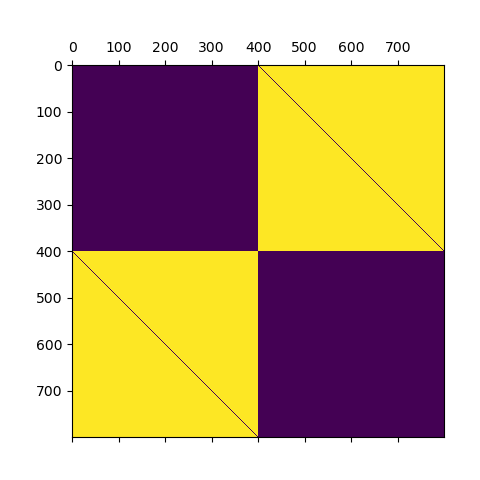
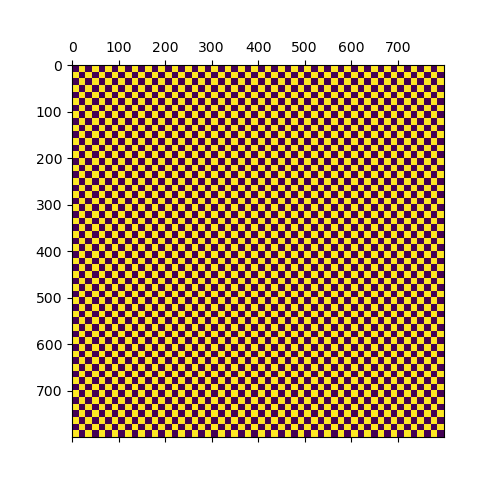
Refactor matrix multiplication in hamiltonian function

Changed region(s): [[0.1562, 0.125, 0.9375, 0.9062]]

diff --git a/main.py b/main.py
@@ -27,10 +27,10 @@ interaction_distance = 3
 
 rng = np.random.default_rng()
 
-sx = np.array([[0,1],[1,0]])
-sy = 1j * np.array([[0,-1],[1,0]])
-sz = np.eye(2)
-sz[-1,-1] = -1
+sx2 = np.array([[0,1],[1,0]])
+sy2 = 1j * np.array([[0,-1],[1,0]])
+sz2 = np.eye(2)
+sz2[-1,-1] = -1
 
 def gaussian_corr(q, u, l0):
     return u * np.exp(-q**2*l0**2/2)
@@ -67,9 +67,9 @@ def get_k_space(L=L):
     return kx, ky, np.diag(cartesian_product[:,0]), np.diag(cartesian_product[:,1])
 
 _, _, kx, _ = get_k_space(L)
-sx = np.kron(sx, np.eye(kx.shape[0]))
-sy = np.kron(sy, np.eye(kx.shape[0]))
-sz = np.kron(sz, np.eye(kx.shape[0]))
+sx = np.kron(np.eye(kx.shape[0]), sx2)
+sy = np.kron(np.eye(kx.shape[0]), sy2)
+sz = np.kron(np.eye(kx.shape[0]), sz2)
 
 def ft_potential_builder_3(L=L, R_I=rng.uniform(low=-L/2,high=L/2,size=(2,N_i*L**2)), u=u, l0=l0):
     '''
@@ -84,7 +84,7 @@ def ft_potential_builder_3(L=L, R_I=rng.uniform(low=-L/2,high=L/2,size=(2,N_i*L*
         rands2 = np.ones_like(ky)*R_I[1,i] # may not be needed
         k_matrix += np.exp(1j * (kx * rands1 + ky * rands2)) * function( (kx**2 + ky**2)**.5 , u, l0) 
 
-    return np.kron(np.eye(2), k_matrix)/L**2
+    return np.kron(k_matrix, np.eye(2))/L**2
 
 def fermi_dirac_ondist(x,T=T,ef=ef): # T=1e7*vf*2*np.pi
     if T != 0:
@@ -107,7 +107,7 @@ def hamiltonian(L=L, R_I=rng.uniform(low=-L/2,high=L/2,size=(2,N_i*L**2)), u=u, 
     '''1min 27s ± 3.7 s per loop (mean ± std. dev. of 7 runs, 1 loop each)'''
     _, _, kx, ky = get_k_space(L)
 
-    sdotk = sx*kx + sy*ky
+    sdotk = np.kron(kx, sx2) + np.kron(ky, sy2)
     H0 = vf * sdotk
     V_q = ft_potential_builder_3(L, R_I, u, l0)
     return H0 + V_q

diff --git a/tests.py b/tests.py
@@ -4,21 +4,14 @@ import time
 import matplotlib.pyplot as plt
 
 def test_hamiltonian():
-    sy = np.array([[0,-1j],[1j,0]])
-    sz = np.eye(2)
-    sz[-1,-1] = -1
-    _, _, _, ky = get_k_space(L)
-    sy = np.kron(sy, ky)
-    sz = np.kron(sz, ky)
-
     start_time = time.time()
 
     result = hamiltonian()
 
     plt.matshow((sz @ result @ (-sz)) == result)
-    plt.savefig('szhsz_h.png')
+    plt.savefig(os.path.join('outtests','szhsz_h.png'))
     plt.matshow((1j*sy @ result @ (-1j*sy)) == result)
-    plt.savefig('isyhisy_h.png')
+    plt.savefig(os.path.join('outtests','isyhisy_h.png'))
 
     assert np.allclose(result, result.conj().T)
     assert np.allclose(sz @ result @ (-sz), result) # --> assertion error
